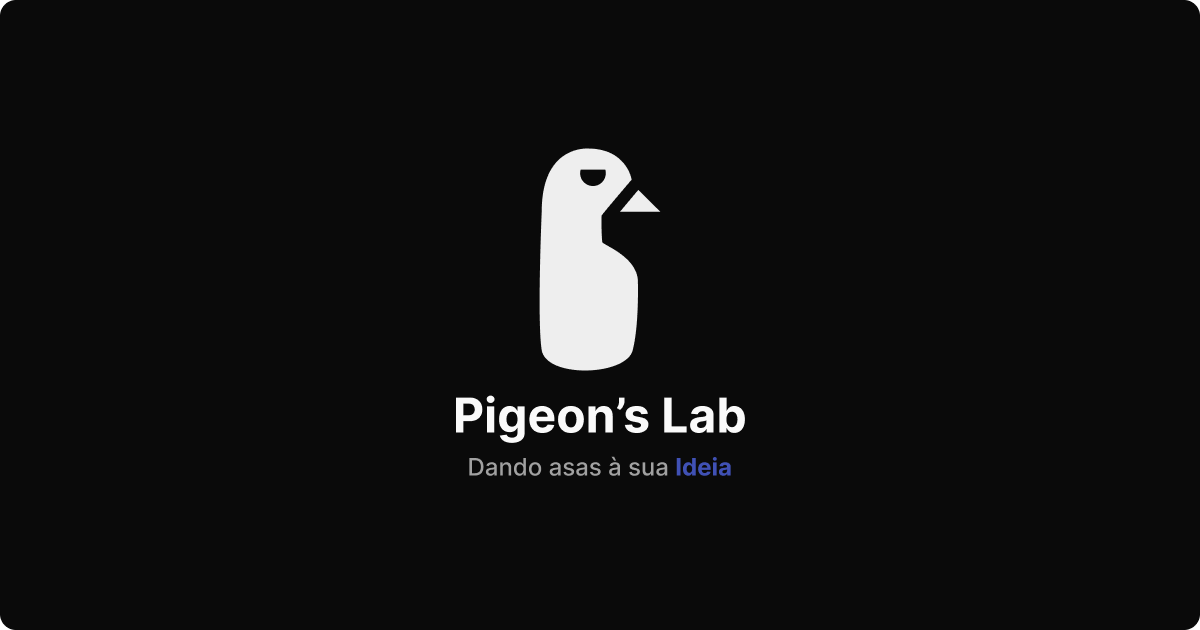
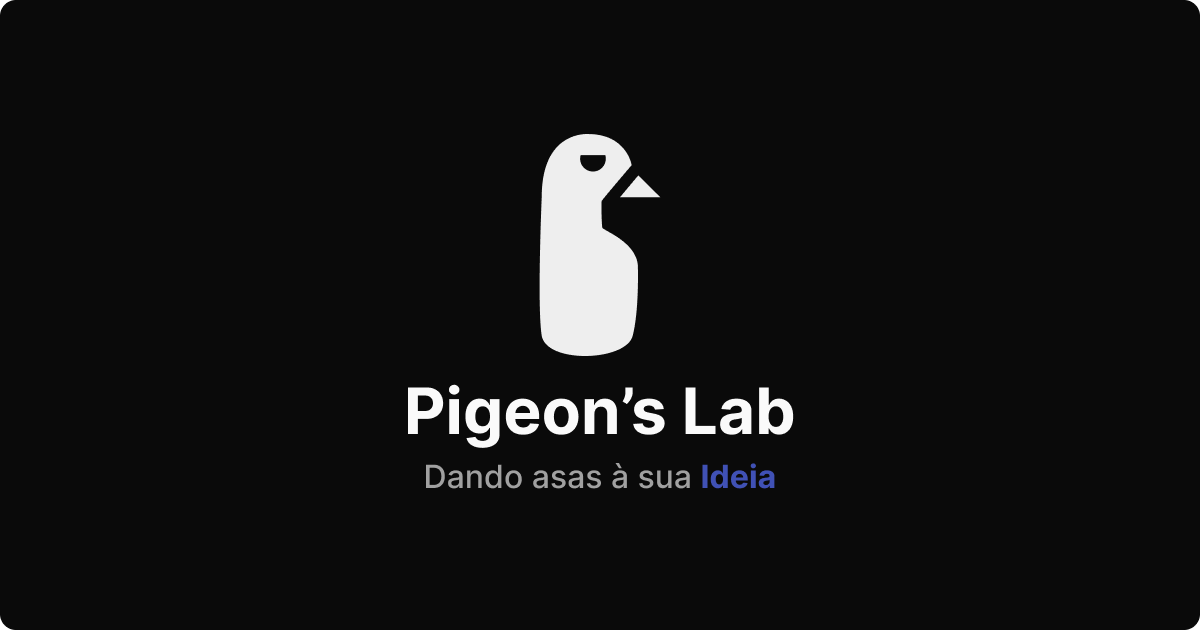
feat: replace og image

diff --git a/src/app/layout.tsx b/src/app/layout.tsx
@@ -75,7 +75,7 @@ export const metadata: Metadata = {
     siteName: "Pigeon's Lab",
     images: [
       {
-        url: 'https://pigeonlab.vercel.app/og-image.png',
+        url: 'https://pigeonlab.vercel.app/og-image.png?v=2',
         type: 'image/png',
         alt: 'Dando asas à sua ideia',
         width: 1200,
@@ -91,7 +91,7 @@ export const metadata: Metadata = {
     description: 'Transformando ideias em experiências digitais marcantes.',
     images: [
       {
-        url: 'https://pigeonlab.vercel.app/og-image.png',
+        url: 'https://pigeonlab.vercel.app/og-image.png?v=2',
         type: 'image/png',
         alt: 'Dando asas à sua ideia',
       },
